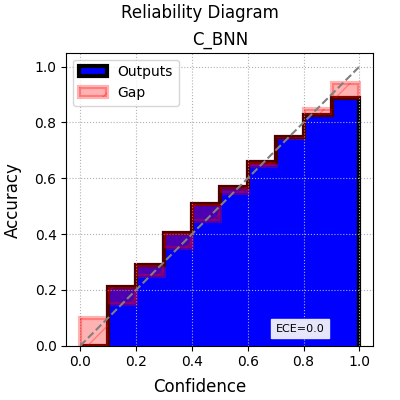
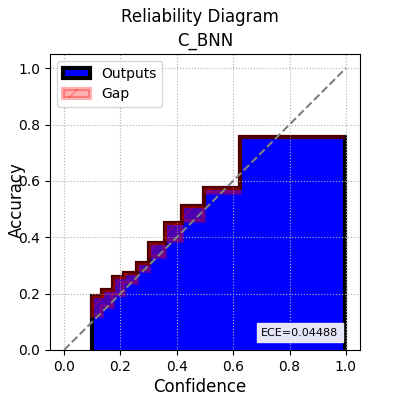
added quantile reliability plots

diff --git a/src/visualization/visualize.py b/src/visualization/visualize.py
@@ -108,6 +108,7 @@ def reliability_plot_classification(correct_predictions, confidence, naive_corre
     fig, ax = plt.subplots(1, 2, sharey=True, figsize=(8,4))
 
     bins_range = np.arange(0, 1.1, 0.1)
+    
     n_samples = len(correct_predictions)
 
     conf_step_height = np.zeros(10)
@@ -173,7 +174,8 @@ def reliability_plot_classification_single(correct_predictions, confidence, mode
         #Code for generating reliability diagram:
     fig, ax = plt.subplots(1, 1, sharey=True, figsize=(4,4))
 
-    bins_range = np.arange(0, 1.1, 0.1)
+    linspace = np.arange(0, 1.1, 0.1)
+    bins_range = np.quantile(confidence, linspace)
     n_samples = len(correct_predictions)
 
     conf_step_height = np.zeros(10)
@@ -188,7 +190,7 @@ def reliability_plot_classification_single(correct_predictions, confidence, mode
         else:
             acc_step_height[i] = 0.0
     
-    ECE = np.sum(ECE_values)/n_samples
+    ECE = np.sum(ECE_values)
     if M>1:
         print(f"{model_name} M{M} ECE: {ECE}")
     else:
@@ -197,12 +199,12 @@ def reliability_plot_classification_single(correct_predictions, confidence, mode
     fig.supxlabel("Confidence")
     fig.supylabel("Accuracy")
     fig.suptitle(f'Reliability Diagram')
-    fig.set_layout_engine('compressed')
+    # fig.set_layout_engine('compressed')
     
     ax.grid(linestyle='dotted', zorder=0)
     ax.stairs(acc_step_height, bins_range, fill = True, color='b', edgecolor='black', linewidth=3.0, label='Outputs', zorder=1)
     ax.stairs(conf_step_height, bins_range, baseline = acc_step_height, hatch="/", fill = True, alpha=0.3, color='r', edgecolor='r', linewidth=3.0, label='Gap', zorder=2)
-    ax.plot(bins_range, bins_range, linestyle='--', color='gray', zorder=3)
+    ax.plot(linspace, linspace, linestyle='--', color='gray', zorder=3)
     
     ax.set_aspect('equal', adjustable='box')
     if M>1:
